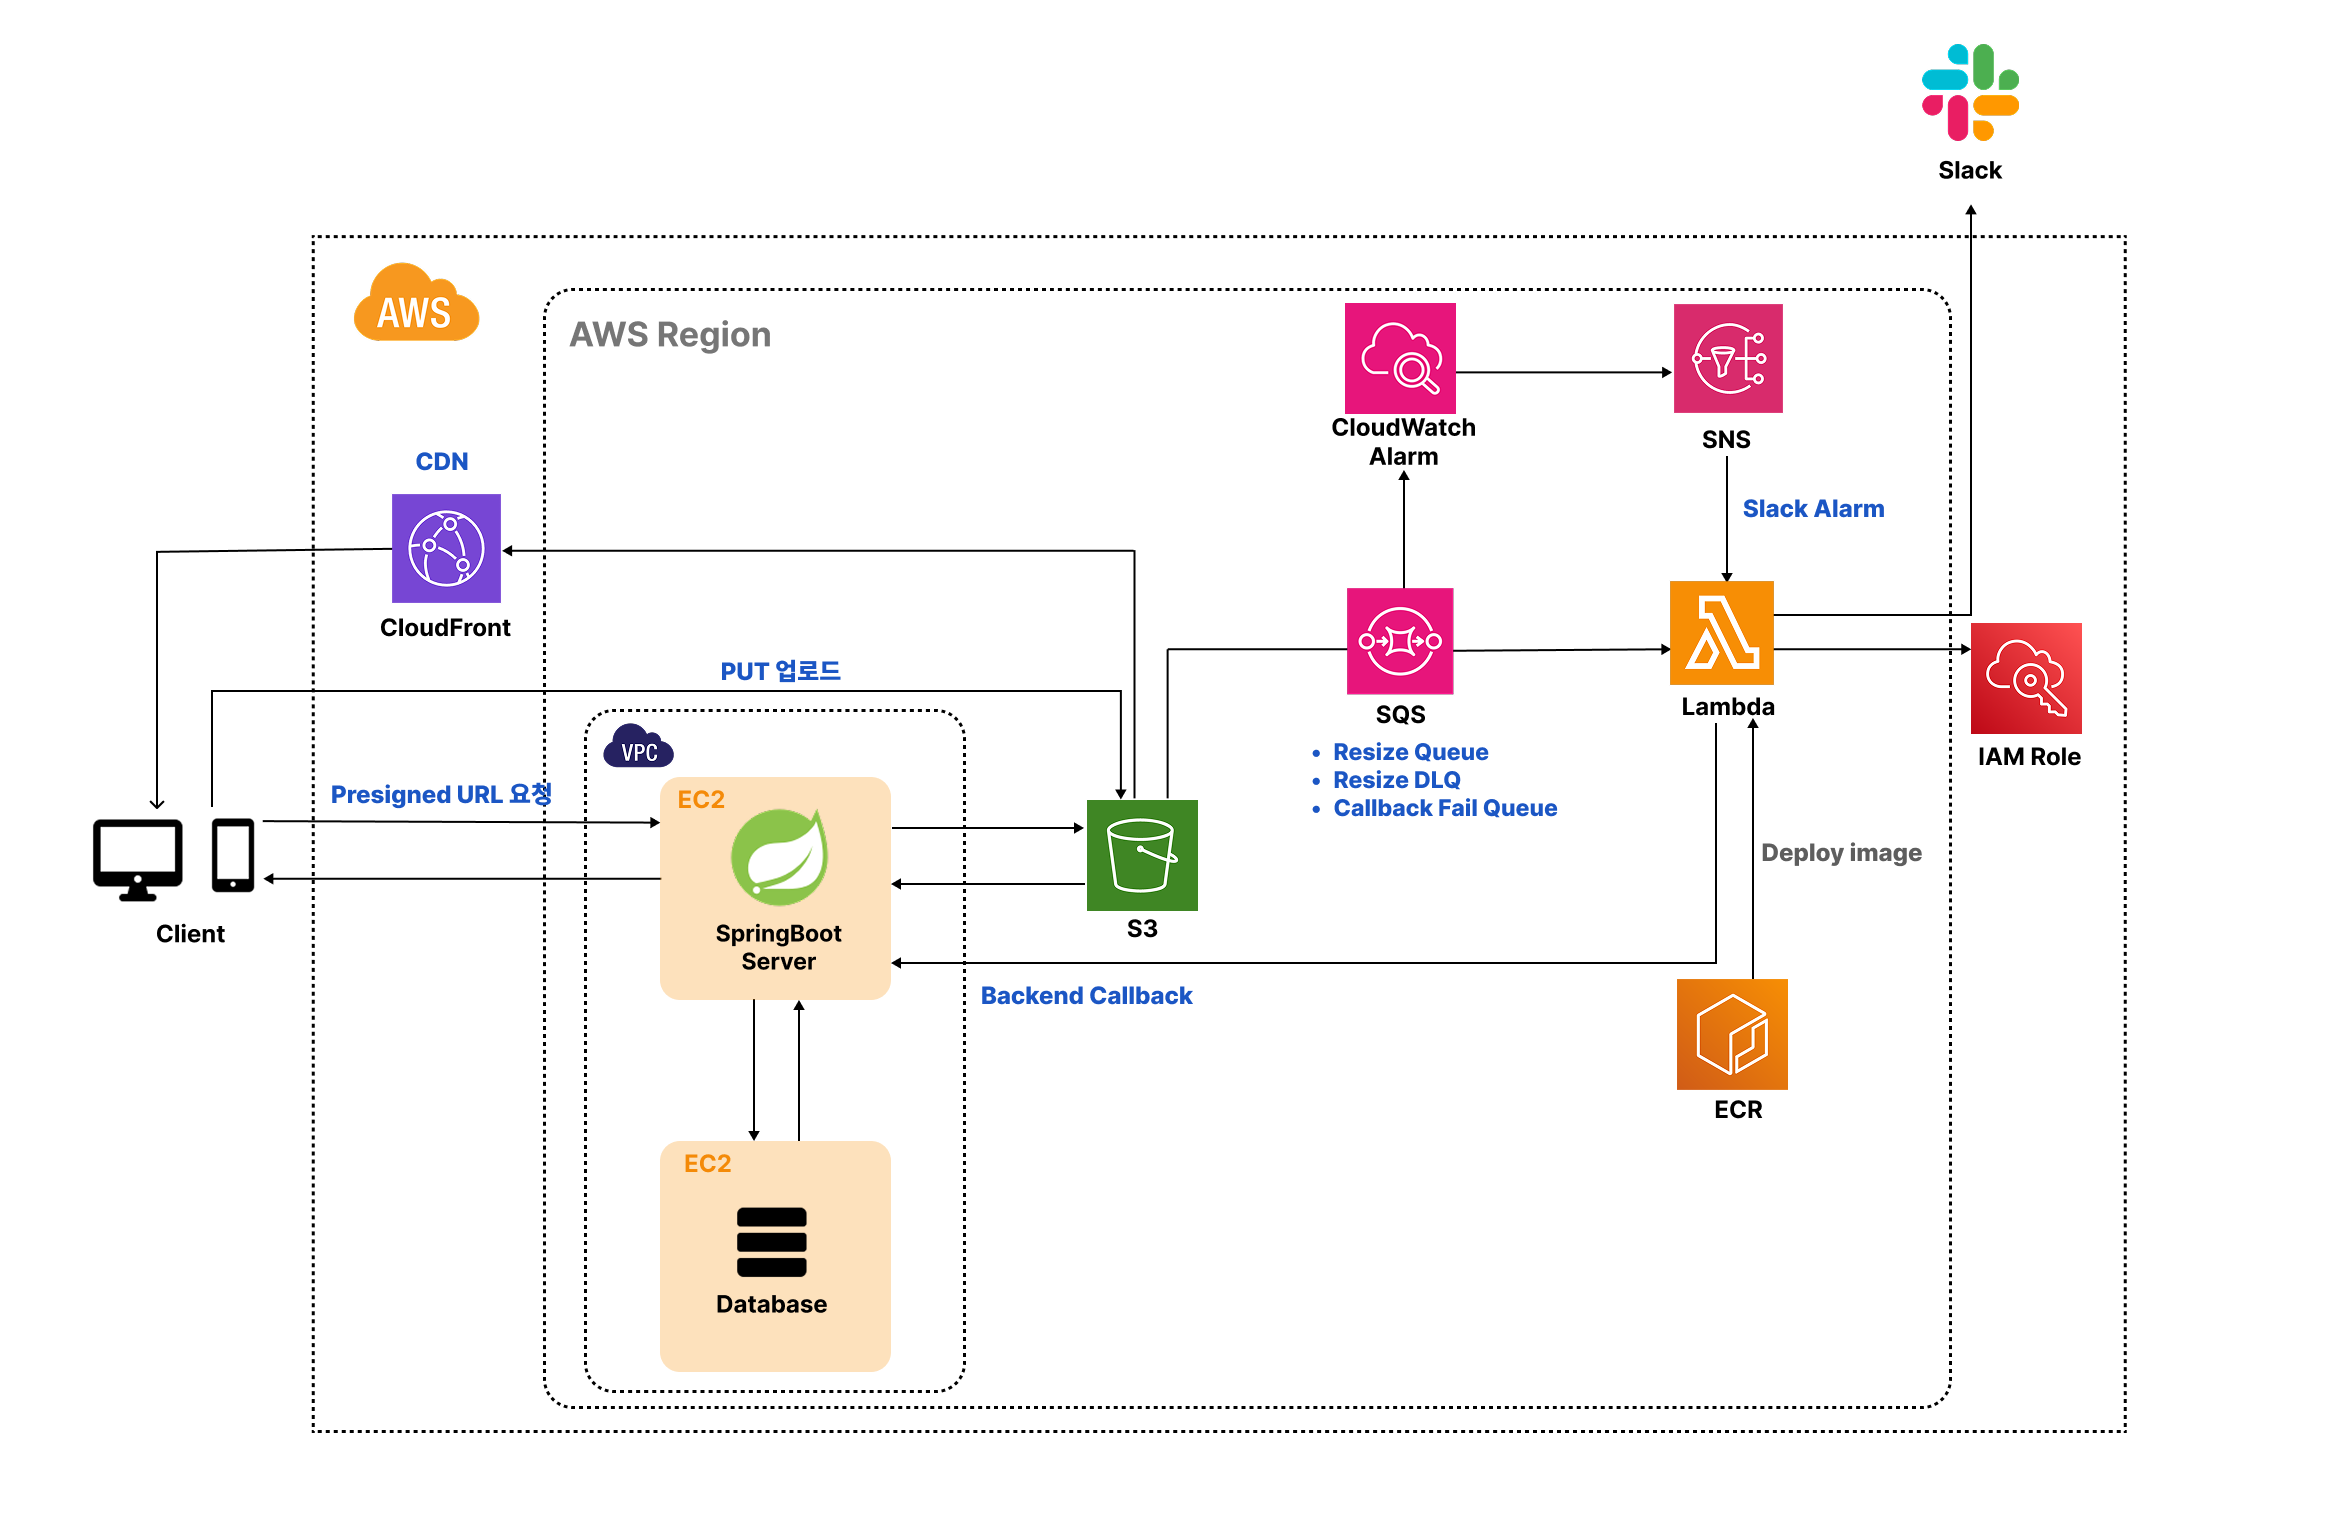
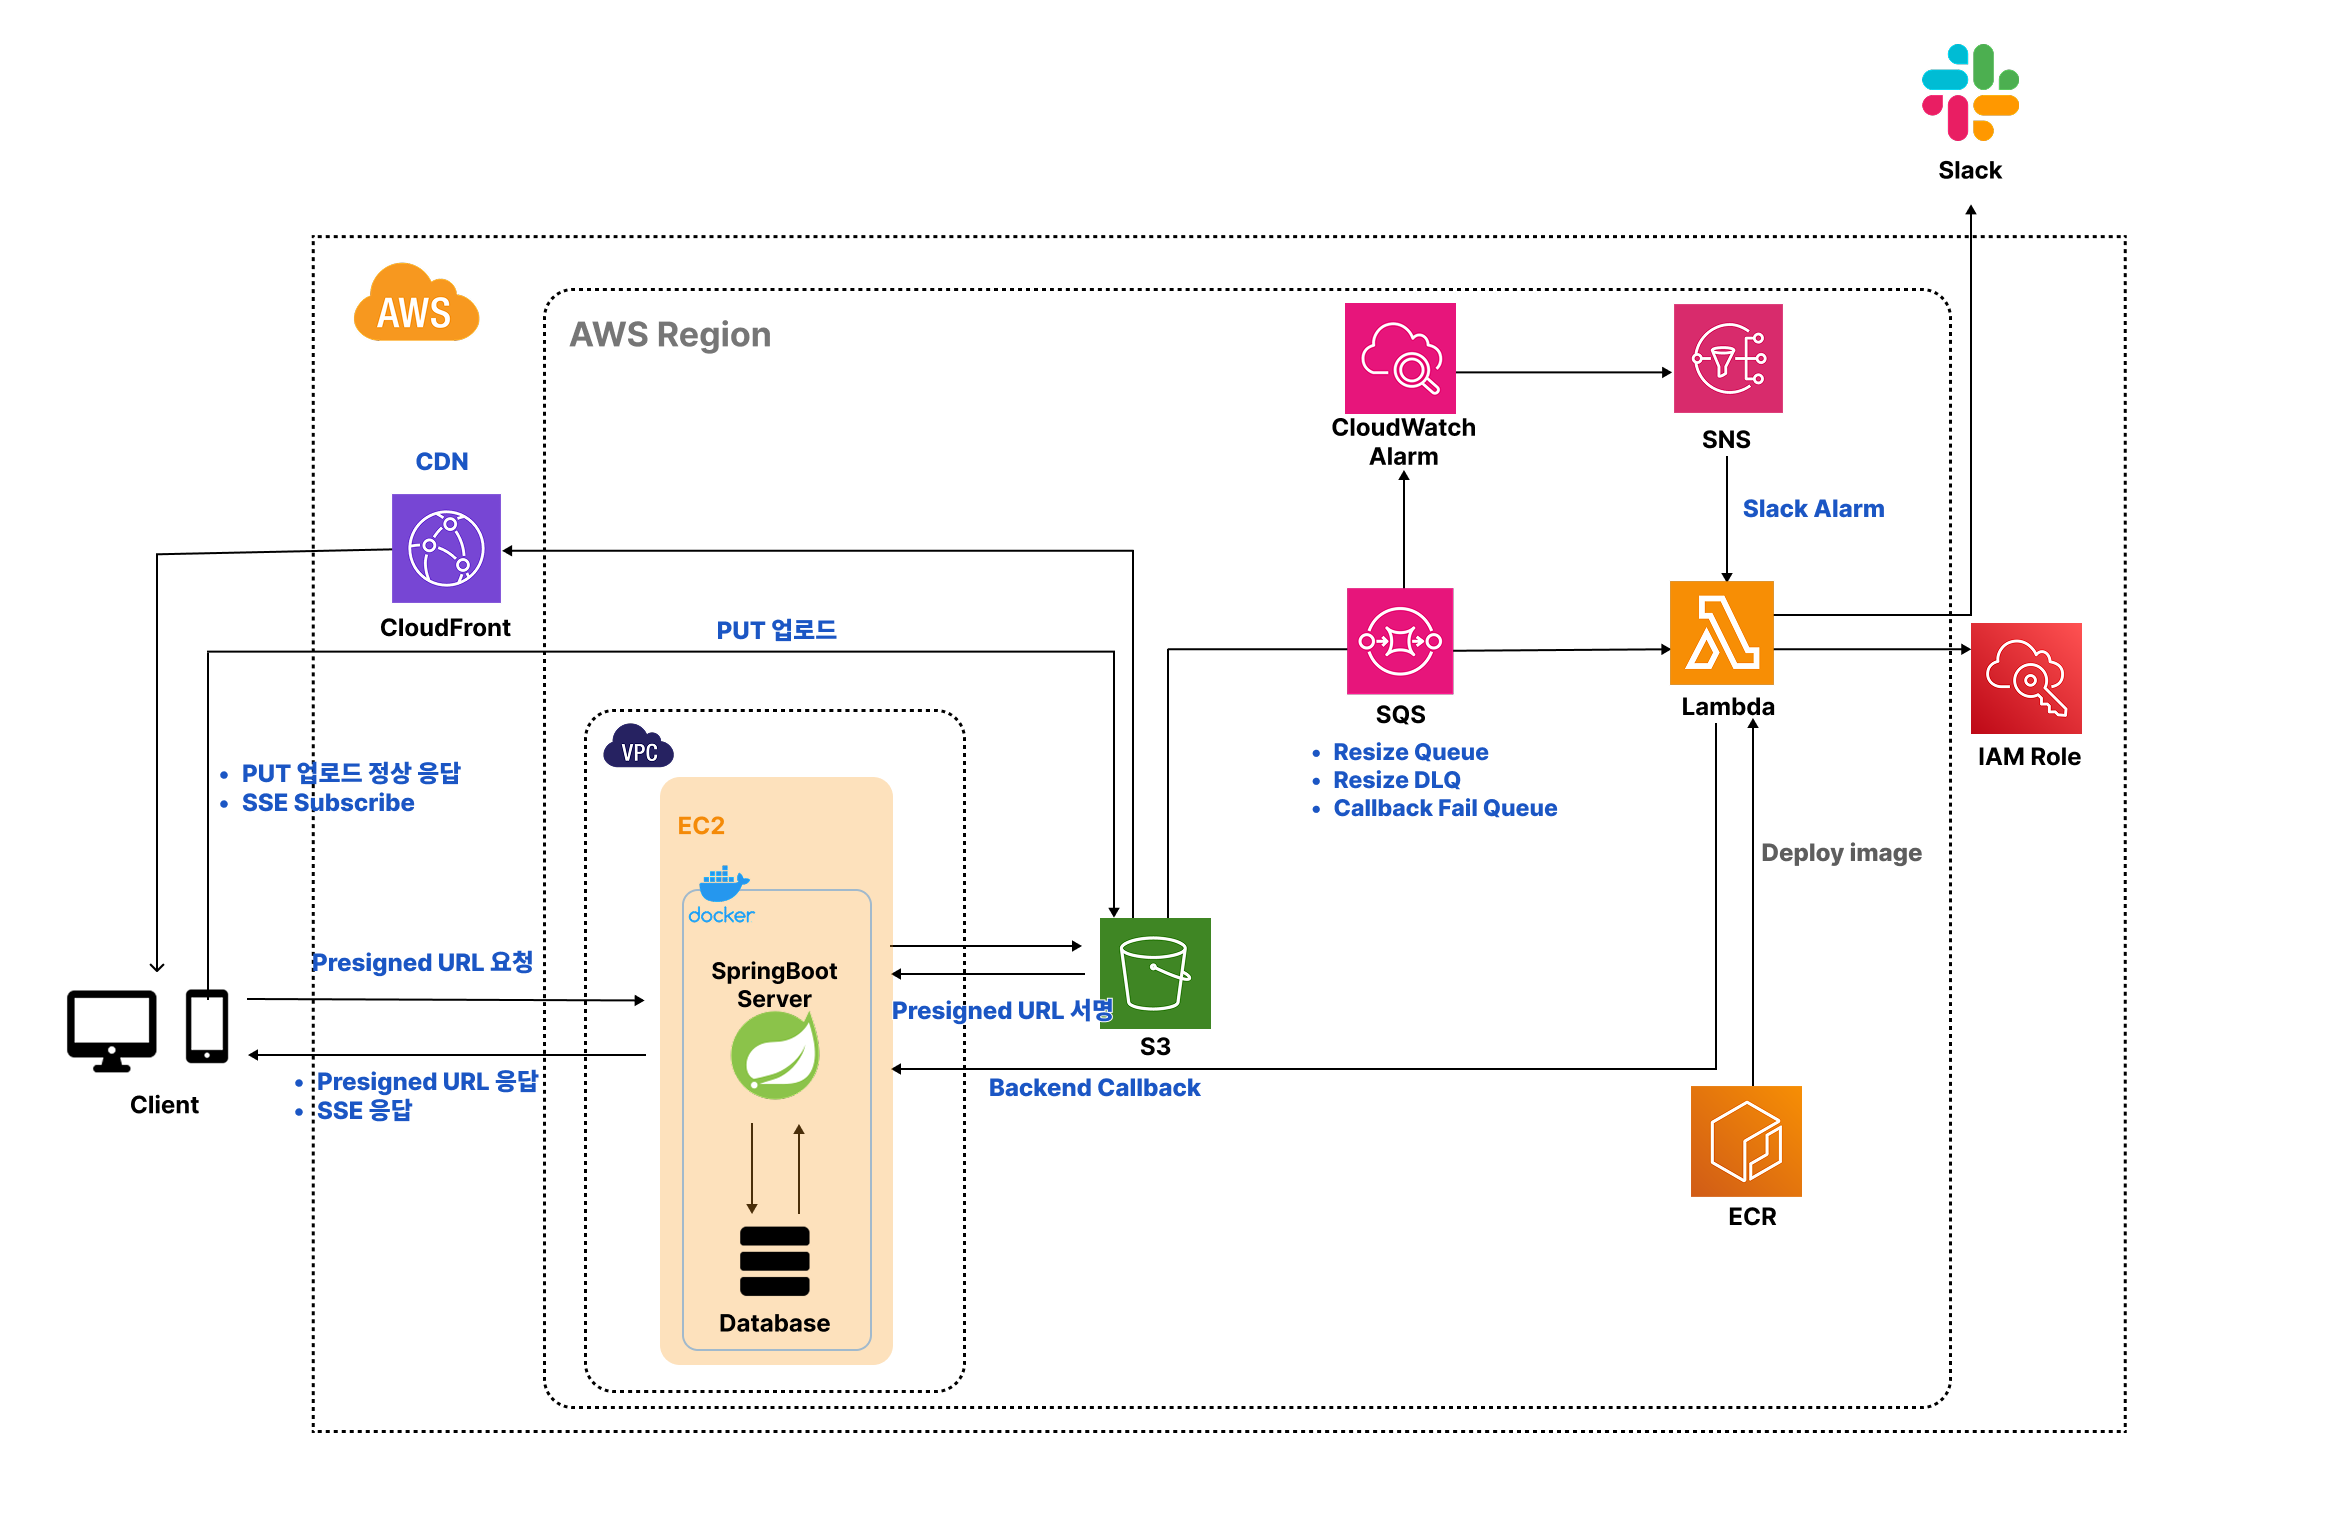
[#74] docs: Readme 작업 - 이미지 리사이징 작업 문서 수정

diff --git a/docs/architecture/creation-image-upload-resize.md b/docs/architecture/creation-image-upload-resize.md
@@ -5,69 +5,65 @@
 ### 작품등록시 썸네일 이미지 업로드
 <img src="../images/upload_creation.png" width="770" alt="작품 등록 썸네일 이미지 업로드" />
 
-- 작품 썸네일 이미지는 홈/목록/상세 등 노출과 모바일,웹 등의 환경을 고려 → 대표 이미지(포스터형, 가로형)와 기타이미지 6장으로 나눠짐
-- 작품 썸네일 이미지는 각각 별도의 이미지 업로드가 가능하며 업로드시 지정된 사이즈로 자동 리사이징
-- 가로형 이미지 등록시 기타이미지 6장은 자동 리사이징 → 이후 기타이미지는 각각 다른 이미지로 수정 가능
-- 이미지 업로드 완료시 사용자에게 미리보기로 보여줘야 하며 업로드 대기 최소화
+- 업도드 할 작품 썸네일 이미지는 대표 이미지(포스터형, 가로형)와 기타이미지 6장으로 나눠짐
+- 대표 이미지인 포스터형과 가로형은 각각 별도의 이미지 업로드 가능
+- 기타이미지 6장은 가로형 이미지 등록시 자동 리사이징
+- 이미지 업로드 완료시 사용자에게 미리보기로 보여줌
 - 이미지 업로드/리사이징 실패시 재처리 가능해야 하며 운영자가 원인을 추적할 수 있어야 함
 
 ---
 
-## ⚠ 이슈사항
-1. 이미지 업로드 처리는 백엔드 서버에서 처리하면 스케일/비용면에서 비효율적
-2. 이미지 리사이징은 어떻게 처리할 것인가?
-3. 이미지 업로드/리사이징 실패시 재처리
-4. 업로드 후 이미지 첫 노출 레이턴시(Latency) 최적화
+## 🛠 ISSUE & 해결방법
 
----
+### **1. 첫번째 ISSUE: 이미지 업로드를 어떻게 처리할 것인가?**
+- **해결방법**: **AWS S3 Presigned URL 사용, S3 bucket**에 이미지 업로드
+- **이유**: 프론트엔드에서 업로드 처리시 백엔드에서의 업로드 보다 Scale/비용면에서 효율적
 
-## 🛠 해결방법
+### **2. 두번째 ISSUE: 리사이징은 어떻게 처리할 것인가?**
+- **해결방법**: 
+  - 포스터형과 가로형: **프론트엔드에서 리사이징**처리
+  - 기타이미지: 가로형 이미지 등록시 **AWS Lambda**처리를 통해 6장 자동 리사이징
 
-1. 이미지 업로드 처리는 백엔드 서버에서 처리하면 스케일/비용면에서 비효율적
-   -  프론트엔드에서 업로드 처리: presigned URL 사용, S3 bucket에 이미지 업로드
+- **이유:** 포스터형/가로형 이미지는 사용자 미리보기 UX가 중요하여 프론트엔드에서 즉시 리사이징한다.
+    다만 최종 업로드 결과물의 규격(용량/MIME)은 서버에서 검증하여 일관성을 유지한다.
+    반면 '기타 이미지 6장'은 플랫폼이 규칙 기반으로 생성하는 파생 리소스이므로, 결과 품질과 규격을 서버 측에서 강제하기 위해 AWS Lambda로 비동기 생성한다.
 
-    <br>
-   
-2. 리사이징은 어떻게 처리할 것인가?
-   - 프론트엔드에서 리사이징 처리 But, 가로형 이미지 등록시 '6장 이미지 리사이징 처리' 필요
-   - 가로형 이미지 등록시 '6장 이미지 리사이징 처리' 방법은?
-     - 해결 방법 1: 마찬가지로 프론트엔드에서 처리
-     - 해결 방법 2: AWS Lambda 처리
-     - 결론: '해결방법 2' 선택
-     - 이유:
+### **3. 세번째 ISSUE: 이미지 업로드/리사이징 실패시 재처리**
+- **해결방법:** SQS 사용을 통해 **Resize Queue(리사이즈 처리 큐)와 Resize DLQ(리사이즈 실패 처리 큐)** 를 지정 
+  <br/> → 리사이징 실패시 3번 시도 후 안되면 Resize DLQ에 적재 
+  <br/> → 이후 CloudWatch → SNS → Slack으로 실패 메세지 전송(Lambda)
+- **이유:** 리사이징은 비동기 처리 특성상 일시적 장애가 빈번할 수 있어 SQS 재시도로 자동 복구율을 높였다. 반복 실패 메시지는 DLQ로 격리해 무한 재시도와 큐 적체를 방지하고, CloudWatch→SNS→Slack 알림으로 운영자가 즉시 대응할 수 있도록 함.
 
-    <br>
+### **4. 네번째 ISSUE: Lambda의 비동기 동작 완료 후 프론트엔드에 결과 통보 방식**
+- **고민:** 폴링(Polling) vs SSE(Server-Sent Events)
+- **해결방법: SSE 이용**
+- **이유:** 폴링은 요청이 반복되어 서버/DB 부하가 누적되지만 SSE는 업로드 직후 짧은 시간 동안만 연결을 유지하면서 완료 이벤트를 서버가 즉시 push할 수 있어, 불필요한 트래픽을 줄인다. 또한 폴링의 interval/재시도/타임아웃 관리 로직을 제거해 클라이언트 구현을 단순화.
 
-3. 이미지 업로드/리사이징 실패시 재처리
-
-    <br>
-
-4. 업로드 후 이미지 첫 노출 레이턴시(Latency) 최적화
-   - S3 직접 접근 대신 CDN 캐시(CloudFront)를 통해 첫 로딩과 이후 재방문 속도 개선 
+### **5. 다섯번째 ISSUE: 업로드 후 이미지 첫 노출 레이턴시(Latency) 최적화**
+   - **해결방법:** CDN 캐시(CloudFront)를 이용
+   - **이유:** S3 직접 접근 대신 CDN 캐시(CloudFront)를 통해 첫 로딩과 이후 재방문 속도 개선
 
 ---
 
 ## ☁ 최종 Architecture & Flow
 <img src="../images/architecture.png" width="800" alt="이미지 업로드 아키텍쳐" />
 
-1. Client → SpringBoot: presigned URL 발급 요청
-2. SpringBoot → S3: presigned URL 생성(서명)
-3. Client → S3: presigned URL로 원본 이미지 PUT 업로드
-4. (Trigger) S3 이벤트 → SQS 적재(Resize Queue)
-   - 리사이징 실패시 3번 시도 후 안되면 Resize DLQ에 적재
-   - 이후 CloudWatch → SNS → Lambda(Slack으로 실패 메세지 전송)
-5. SQS → Lambda: 리사이징 작업 실행(6개의 파생 이미지 생성)
-6. Lambda → S3: 파생 이미지 저장
-7. Lambda → SpringBoot: 처리 완료 후 백엔드로 콜백(HMAC 인증) → SSE로 완료 알림
+### 포스터형 or 가로형 썸네일 이미지 등록 과정
+1. **Client → SpringBoot:** presigned URL 발급 요청
+2. **SpringBoot → S3:** presigned URL 생성(서명)
+3. **SpringBoot → Client → S3:** presigned URL로 원본 이미지 PUT 업로드
+4. **Client → SpringBoot:** S3에서 업로드 완료 응답시 file_object 테이블의 이미지 메타 정보 중 status를 READY로 변경
+
+### 가로형 썸네일 이미지 등록시 6개 이미지 리사이징 과정(이전 과정까지는 동일)
+5. **Client → SpringBoot:** S3에서 업로드 완료 응답시 SSE Subscribe
+5. **(Trigger) S3 이벤트 → SQS 적재(Resize Queue)**
+   - 리사이징 실패시 3번 시도 후 **안되면** Resize DLQ에 적재
+   - 이후 CloudWatch → SNS → Slack으로 실패 메세지 전송(Lambda)
+6. **SQS → Lambda:** 리사이징 작업 실행(6개의 파생 이미지 생성)
+7. **Lambda → S3:** 파생 이미지 저장
+8. **Lambda → SpringBoot:** 처리 완료 후 백엔드로 콜백(HMAC 인증) → SSE로 완료 알림
     - 백엔드 콜백 실패시 Callback Fail Queue에 적재
-8. Client → CloudFront → S3: CDN 캐시 기반 이미지 제공
-
----
-
-## 📌 기타 고민사항
-1. 리사이징 완료 통지 방식을 어떻게 할것인가? 
-   - Polling vs SSE(WebSocket 포함)
-2. 
+9. **Client → CloudFront → S3:** CDN 캐시 기반 이미지 제공
 
 ---
 
@@ -76,4 +72,6 @@
 ---
 
 ## 🔧 개선점
-
+1. 이미지 등록 취소시 S3에 이미 업로드 된 사용하지 않는 이미지 제거
+2. 백엔드 콜백 실패시 Callback Fail Queue에 적재된 작업 재시도 처리
+3. Lambda Cold Start 처리
